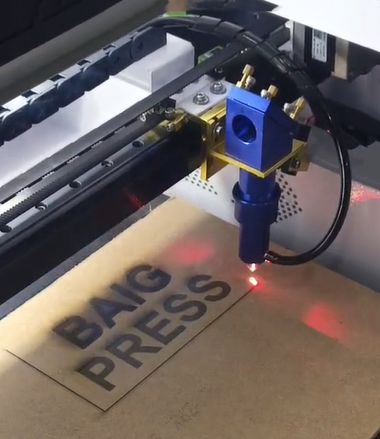
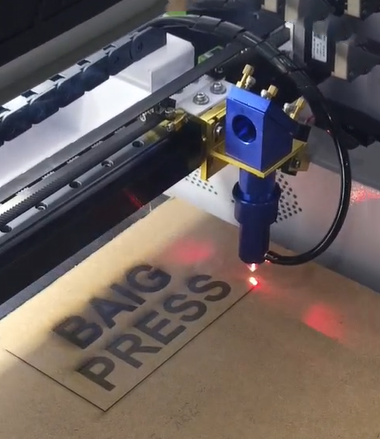
img-005 copy edited

Changed region(s): [[0.6658, 0.0, 1.0, 0.1481], [0.9842, 0.9772, 1.0, 1.0]]

diff --git a/index.html b/index.html
@@ -66,7 +66,7 @@
 
     </header>
     <!-- Scrolling Advertisement Text -->
-  <div class="w-full overflow-hidden whitespace-nowrap border-y border-slate-700 py-6 dark:bg-blue-950 sticky top-20 z-50 w-full overflow-hidden whitespace-nowrap border-y border-slate-700 py-6 bg-slate-900/90 backdrop-blur-sm fade-in" ">
+  <div class="w-full h-16 overflow-hidden whitespace-nowrap border-y border-slate-700 py-6 dark:bg-blue-950 sticky top-20 z-50 w-full overflow-hidden whitespace-nowrap border-y border-slate-700 py-6 bg-slate-900/90 backdrop-blur-sm fade-in" ">
     <p class="animate-marquee hover:[animation-play-state:paused] ... px-4 md:px-8 lg:px-12 animate-marquee inline-block text-2xl md:text-2xl font-bold text-transparent bg-clip-text bg-gradient-to-r from-cyan-400 via-pink-500 to-yellow-500 ">
       Premium Printing & Branding &nbsp;&nbsp;&nbsp; • Panaflex Printing &nbsp;&nbsp;&nbsp; • &nbsp;&nbsp;&nbsp; Laser Cutting & Engraving &nbsp;&nbsp;&nbsp; • &nbsp;&nbsp;&nbsp; Business cards &nbsp;&nbsp;&nbsp; • &nbsp;&nbsp;&nbsp; Large Format Banner &nbsp;&nbsp;&nbsp; • &nbsp;&nbsp;&nbsp; Packaging & Labels &nbsp;&nbsp;&nbsp; • &nbsp;&nbsp;&nbsp; Offset Printing &nbsp;&nbsp;&nbsp; • &nbsp;&nbsp;&nbsp; Digital Printing &nbsp;&nbsp;&nbsp; • &nbsp;&nbsp;&nbsp; Binding & Finishing
     </p>
@@ -659,7 +659,7 @@
                 <a href="mailto:hello@baigpress.com">hello@baigpress.com</a>
               </li>
               <li>
-                <a href="#contact">House No 533, Sayen Saheli Road, Haripur</a>
+                <a href="#contact">Sayen Saheli Road,<br> Haripur Pakistan</a>
               </li>
             </ul>
           </div>
